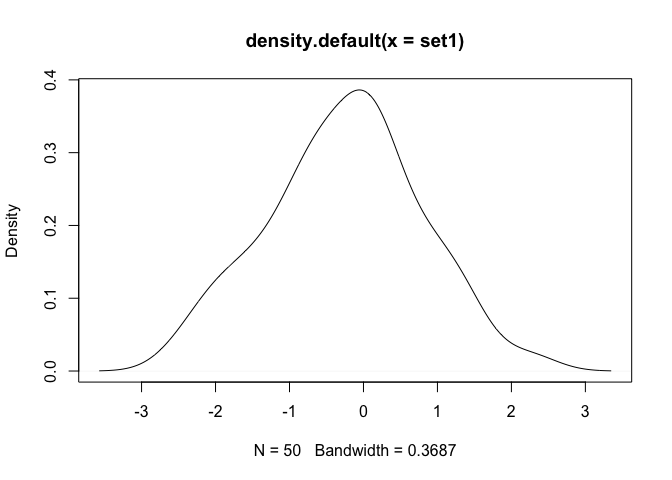
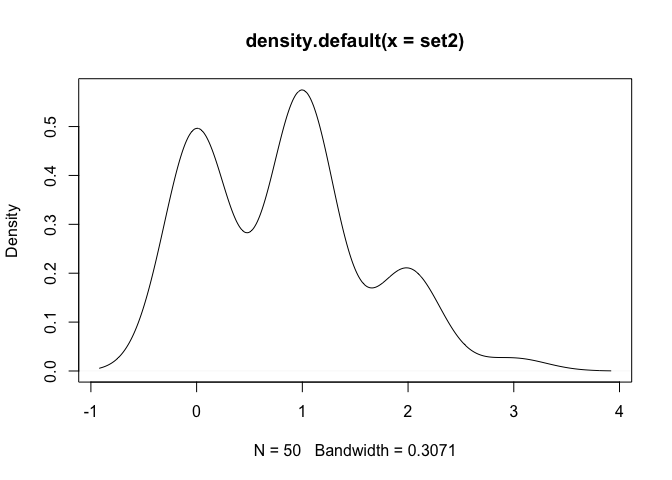
updated example for get_pvalue

diff --git a/README.md b/README.md
@@ -51,16 +51,6 @@ devtools::install_github("chrsshn/checknormality")
 
 ## Example 1: Testing a sample from a normal distribution
 
-``` normal
-library (checknormality)
-set1 <- rnorm (50, 0, 1)
-shapiro.test (set1)
-sw_test (set1)
-plot(density (set1))
-```
-
-## Example 2: Testing a sample from a normal distribution
-
 ``` r
 library (checknormality)
 set1 <- rnorm (50, 0, 1)
@@ -69,18 +59,36 @@ shapiro.test (set1)
 #>  Shapiro-Wilk normality test
 #> 
 #> data:  set1
-#> W = 0.97999, p-value = 0.5514
+#> W = 0.93692, p-value = 0.01019
 sw_test (set1)
-#>  [1] 0.237721596 1.058921751 0.041337161 1.233142312 0.210247698 0.359917457
-#>  [7] 0.234603651 0.249073281 1.459571736 7.776508925 0.196683380 0.052704199
-#> [13] 2.021400294 1.975280523 0.590255614 0.041989452 0.019104092 0.435653985
-#> [19] 0.700613132 0.392357162 1.046698921 0.209102657 0.357909940 0.020950784
-#> [25] 1.469254929 5.669832448 0.252290745 0.476174375 0.038824723 1.326724558
-#> [31] 0.003143995 0.650810136 0.836382522 1.271781184 0.108877535 5.207621711
-#> [37] 0.391709312 0.585029817 0.687259669 2.482328409 2.109762884 0.257954804
-#> [43] 0.002359577 3.374346437 0.161248052 0.008218266 3.559156602 0.394719641
-#> [49] 1.599446211 2.598222093
+#> 
+#>  Shapiro-Wilk Test of Normality
+#> 
+#> data:  set1
+#> W = 0.92506, p-value = 0.93
 plot(density (set1))
 ```
 
 <img src="man/figures/README-unnamed-chunk-2-1.png" width="100%" />
+
+## Example 2: Testing a sample from a normal distribution
+
+``` r
+library (checknormality)
+set2 <- rpois(50, .787)
+shapiro.test (set2)
+#> 
+#>  Shapiro-Wilk normality test
+#> 
+#> data:  set2
+#> W = 0.81725, p-value = 2.242e-06
+sw_test (set2)
+#> 
+#>  Shapiro-Wilk Test of Normality
+#> 
+#> data:  set2
+#> W = 0.81169, p-value = 0.93
+plot(density (set2))
+```
+
+<img src="man/figures/README-unnamed-chunk-3-1.png" width="100%" />
